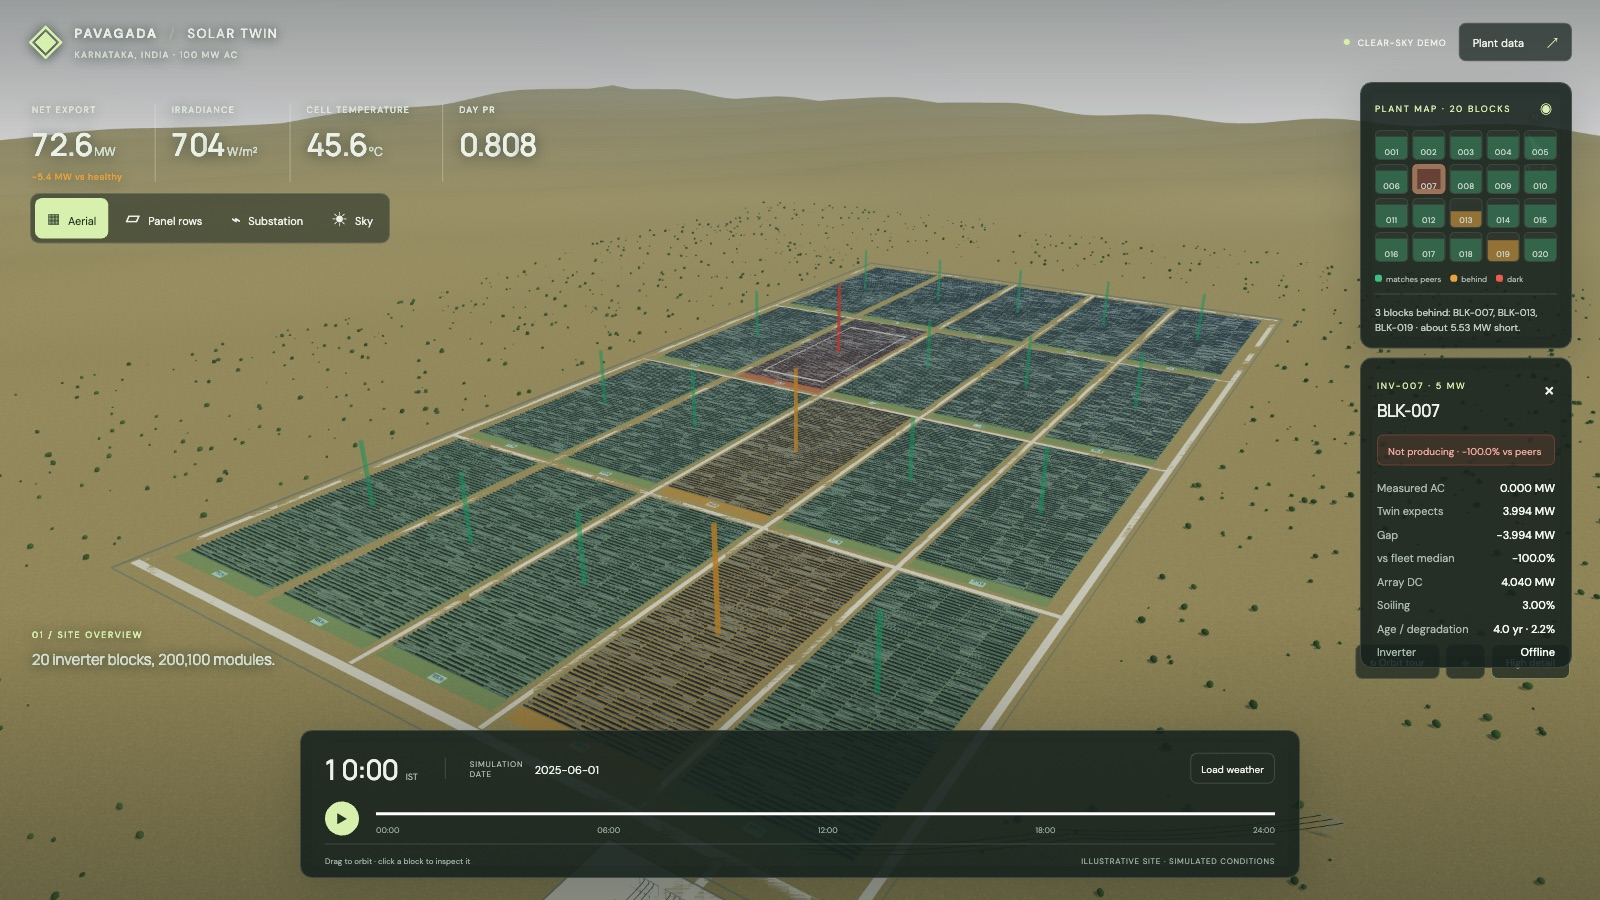
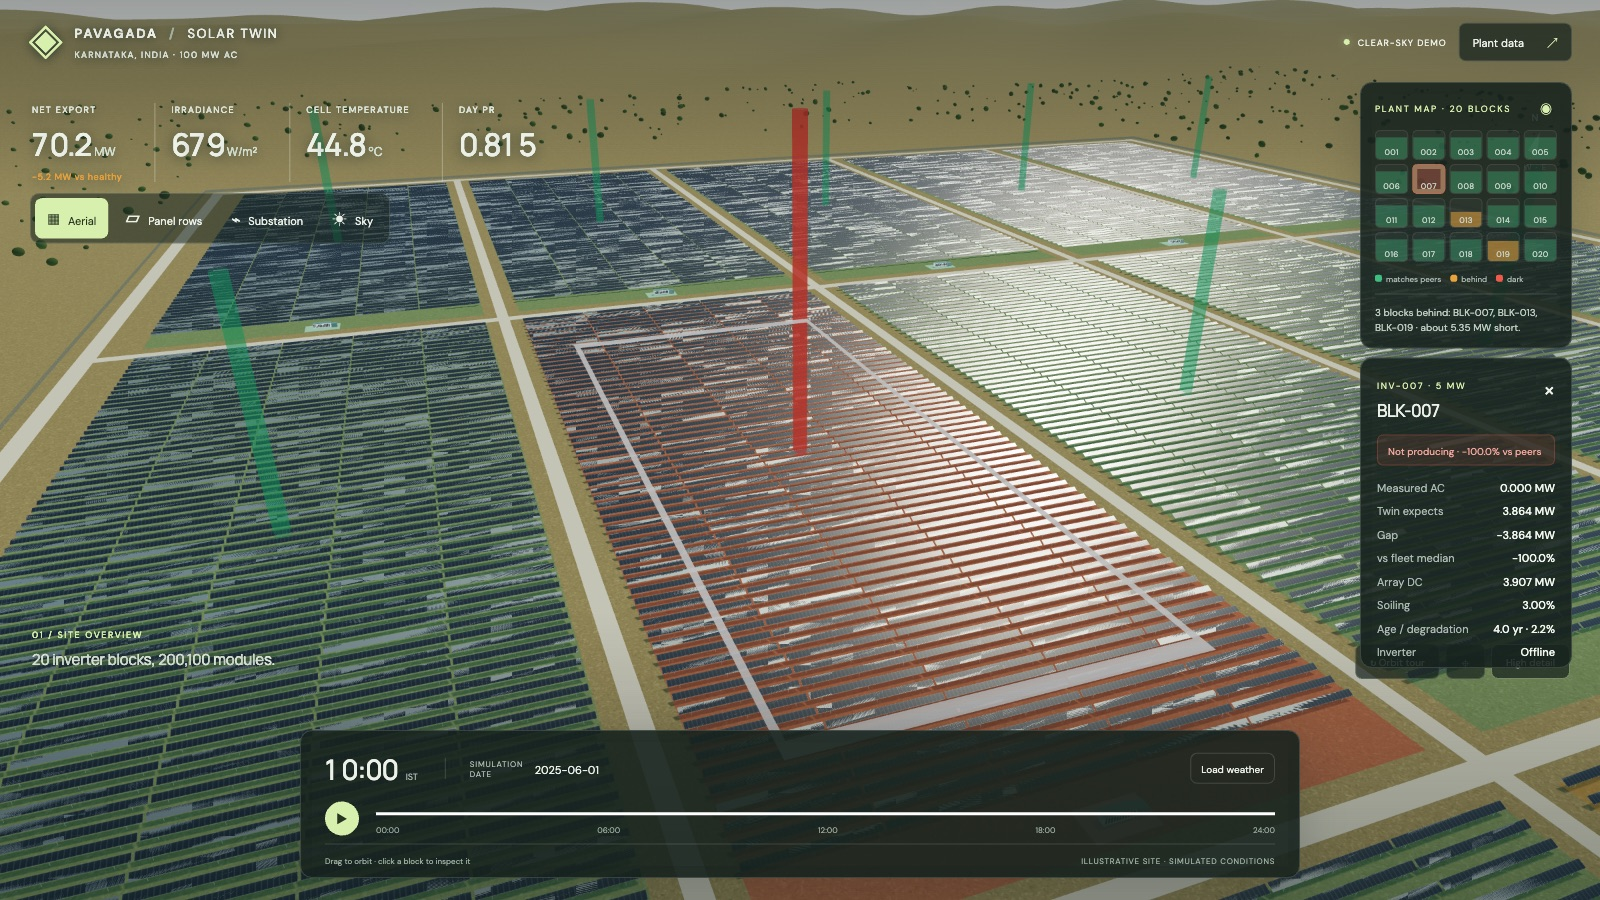
Reshoot two README screenshots from different viewpoints
The first three images were the same aerial camera angle with different panels
open, so the page read as one picture repeated. Only the panels differed, which
is not what a reader notices.

- Fault detection: flown in close and low on BLK-007 instead, so the dark block
  under its red beacon and the selection ring are the subject rather than a
  detail somewhere in a wide shot.
- Loss waterfall: moved to the collector substation, which also suits a
  waterfall that ends at the grid - transformers, gantries and the control room
  rather than the array again.

Captions and surrounding text updated to match, including the sky-masking line
the waterfall gained with the pvlib migration.

diff --git a/frontend/index.html b/frontend/index.html
@@ -106,6 +106,6 @@
   <div class="timeline-footer"><span id="status" role="status">Drag to orbit · click a block to inspect it</span><span>ILLUSTRATIVE SITE · SIMULATED CONDITIONS</span></div>
 </section>
 
-<script type="module" src="app.js?v=39"></script>
+<script type="module" src="app.js?v=41"></script>
 </body>
 </html>

diff --git a/frontend/app.js b/frontend/app.js
@@ -1,4 +1,4 @@
-import { SolarScene } from './scene.js?v=51';
+import { SolarScene } from './scene.js?v=53';
 
 const $ = id => document.getElementById(id);
 const hourInput = $('hour-input'), dateInput = $('date-input');

diff --git a/README.md b/README.md
@@ -21,12 +21,13 @@ wrong with it. The model runs **twice** on every timestep: once assuming a
 perfectly healthy plant, once under the plant's real declared state. The
 difference between them, block by block, is the product.
 
-![A tripped inverter found and quantified](docs/images/02-fault-detection.jpg)
+![Flown in close to BLK-007, dark under a red beacon, with the twin's verdict beside it](docs/images/02-fault-detection.jpg)
 
-Here BLK-007's inverter has tripped. The twin didn't need telling: it compared
-each block's measured output against the **fleet median** and found one reading
-100% below its peers, worth 3.99 MW. BLK-013 and BLK-019 are flagged amber for
-a string outage and a patch of soiling.
+BLK-007's inverter has tripped — the dark block under the red beacon. The twin
+didn't need telling: it compared each block's measured output against the
+**fleet median** and found one reading 100% below its peers, worth 3.86 MW.
+BLK-013 and BLK-019 are flagged amber on the plant map for a string outage and
+a patch of soiling.
 
 Comparing against the *median* rather than a fixed threshold is the whole
 trick. If the irradiance input is 12% low, every block reads 12% low — a fixed
@@ -35,11 +36,12 @@ to the plant and leaves only what's specific to one block.
 
 ## Every megawatt is accounted for
 
-![The loss waterfall](docs/images/03-loss-waterfall.jpg)
+![The loss waterfall, over the collector substation where the losses end up](docs/images/03-loss-waterfall.jpg)
 
 From nameplate irradiance down to the grid, each loss attributed to a named
-cause — glass reflection, cell temperature, soiling, degradation, string
-outages, inverter clipping, transformers, cables, auxiliaries. Nothing
+cause — glass reflection, sky masked by neighbouring rows, cell temperature,
+soiling, degradation, string outages, inverter clipping, transformers, cables,
+auxiliaries. Nothing
 disappears into an unexplained "derate factor". **The bars close exactly**, to
 within 1e-9 MW, and there's a test that proves it.
 
